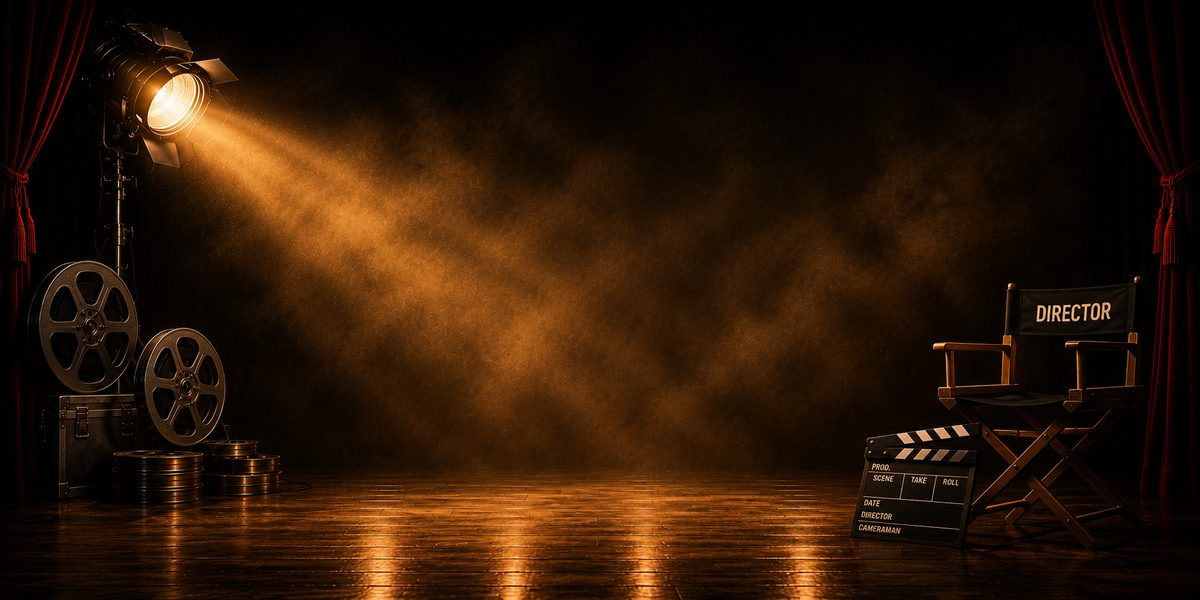
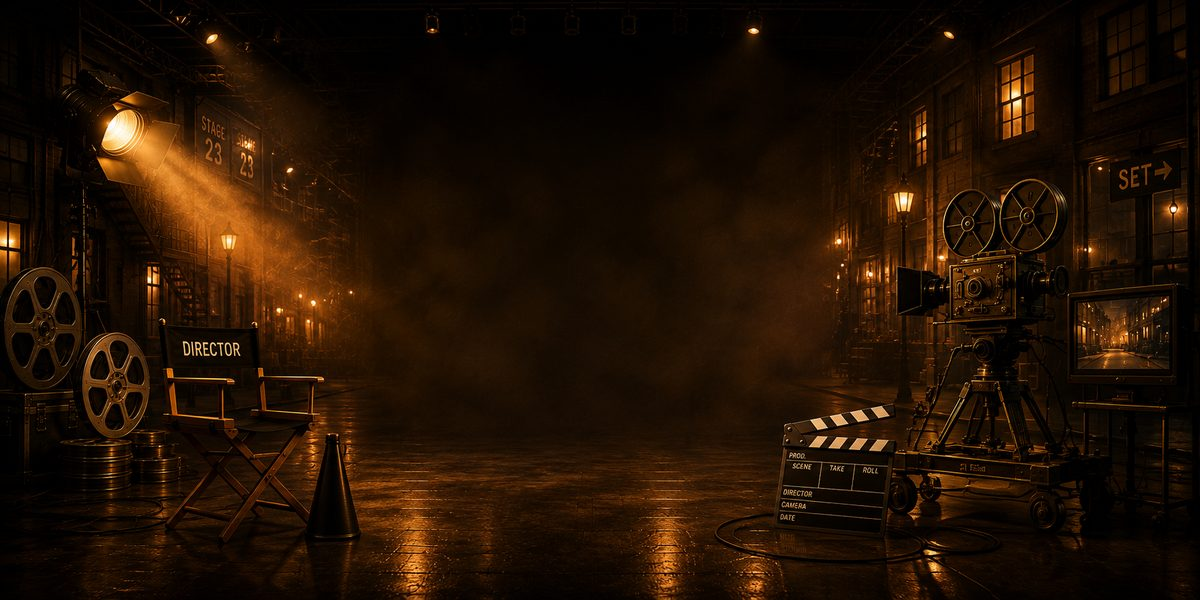
SFS: new Music + Movies&TV header backgrounds (v80)

diff --git a/index.html b/index.html
@@ -880,7 +880,7 @@ function numShelf(title,arr){ if(arr.length<1) return ''; var tiles=arr.map(func
 /* ===== views: Play (home) · Explore · My Vaults ===== */
 var curEdition='music', curView='play';
 function setEdition(id){ curEdition=id; var e=edById(id); if(e) document.documentElement.style.setProperty('--accent', e.accent); applyTheme(id,true); render(); var app=document.getElementById('app'); if(app){ app.classList.remove('edin'); void app.offsetWidth; app.classList.add('edin'); } window.scrollTo(0,0); }
-var THEME={music:{hdr:"music-header.jpg?v=12",logo:"music-logo.png?v=4",floor:"music-floor.jpg?v=3",fb:0.3},filmtv:{hdr:"movies-header.jpg?v=1",logo:"movies-logo.png?v=2",floor:"movies-floor.jpg?v=1",fb:0.55},sports:{hdr:"sports-header.jpg?v=2",logo:"sports-logo.png?v=3",floor:"sports-floor.jpg?v=1",fb:0.3}};
+var THEME={music:{hdr:"music-header.jpg?v=13",logo:"music-logo.png?v=4",floor:"music-floor.jpg?v=3",fb:0.3},filmtv:{hdr:"movies-header.jpg?v=2",logo:"movies-logo.png?v=2",floor:"movies-floor.jpg?v=1",fb:0.55},sports:{hdr:"sports-header.jpg?v=2",logo:"sports-logo.png?v=3",floor:"sports-floor.jpg?v=1",fb:0.3}};
 var _hb=1,_lg=1,_fl=1;
 function applyTheme(id,animate){ var t=THEME[id]||THEME.music; var hb=1-_hb,h=document.getElementById('hdr'+hb),ho=document.getElementById('hdr'+_hb); if(h){h.style.backgroundImage="url('"+t.hdr+"')";h.style.opacity='1';} if(ho)ho.style.opacity='0'; _hb=hb; var lg=1-_lg,l=document.getElementById('logo'+lg),lo=document.getElementById('logo'+_lg); if(l){l.src=t.logo;l.style.opacity='1'; if(animate){l.classList.remove('pulse');void l.offsetWidth;l.classList.add('pulse');}} if(lo)lo.style.opacity='0'; _lg=lg; var fl=1-_fl,fe=document.getElementById('floor'+fl),foe=document.getElementById('floor'+_fl); var _fg={sports:"radial-gradient(85% 55% at 88% 6%,rgba(255,130,30,.26),rgba(255,130,30,0) 55%),radial-gradient(95% 68% at 6% 12%,rgba(22,44,86,.60),rgba(22,44,86,0) 58%),linear-gradient(165deg,#111119 0%,#0a0b11 55%,#070709 100%)",filmtv:"radial-gradient(85% 55% at 88% 6%,rgba(242,193,78,.24),rgba(242,193,78,0) 55%),radial-gradient(95% 68% at 6% 12%,rgba(150,110,30,.42),rgba(150,110,30,0) 58%),linear-gradient(165deg,#121118 0%,#0b0a10 55%,#070708 100%)"}[id]||''; if(fe){fe.style.backgroundImage=_fg?_fg:"url('"+t.floor+"')";fe.style.opacity='1';} if(foe)foe.style.opacity='0'; _fl=fl; var fbg=document.getElementById('floorbg'); if(fbg) fbg.style.filter='brightness('+(_fg?1:(t.fb||0.3))+')'; var BBBG={music:'#1a0d33',filmtv:'#0e0e12',sports:'#14274d'}; var bb=document.getElementById('brandBar'); if(bb) bb.style.background=(BBBG[id]||'#1a0d33'); var mb=document.querySelector('#brandBar .mini-brand img'); if(mb) mb.src=t.logo; var BRBAR={music:'#3EDBFF',filmtv:'#F2C14E',sports:'#FF8A2A'}; document.documentElement.style.setProperty('--brbar', BRBAR[id]||BRBAR.music); }
 function preloadThemes(){ for(var k in THEME){ (function(t){['hdr','logo','floor'].forEach(function(p){var im=new Image();im.src=t[p];});})(THEME[k]); } }
@@ -1283,4 +1283,4 @@ brandBarState();
  setTimeout(go, 1200); // safety: run even if a preload stalls
 })();
 </script>
-<div id="buildtag">v79</div><style>#buildtag{position:fixed;left:5px;bottom:3px;z-index:99999;font:700 9px/1 system-ui,sans-serif;color:rgba(255,255,255,.30);pointer-events:none;letter-spacing:.5px}</style></body></html>
+<div id="buildtag">v80</div><style>#buildtag{position:fixed;left:5px;bottom:3px;z-index:99999;font:700 9px/1 system-ui,sans-serif;color:rgba(255,255,255,.30);pointer-events:none;letter-spacing:.5px}</style></body></html>

diff --git a/sw.js b/sw.js
@@ -1,4 +1,4 @@
-var CACHE='sfs-v79';
+var CACHE='sfs-v80';
 var ASSETS=['/','/index.html','/play.html','/manifest.webmanifest','/icon-192.png','/icon-512.png','/apple-touch-icon.png'];
 self.addEventListener('install',function(e){ e.waitUntil(caches.open(CACHE).then(function(c){return c.addAll(ASSETS).catch(function(){});}).then(function(){return self.skipWaiting();})); });
 self.addEventListener('activate',function(e){ e.waitUntil(caches.keys().then(function(keys){return Promise.all(keys.map(function(k){if(k!==CACHE)return caches.delete(k);}));}).then(function(){return self.clients.claim();})); });
